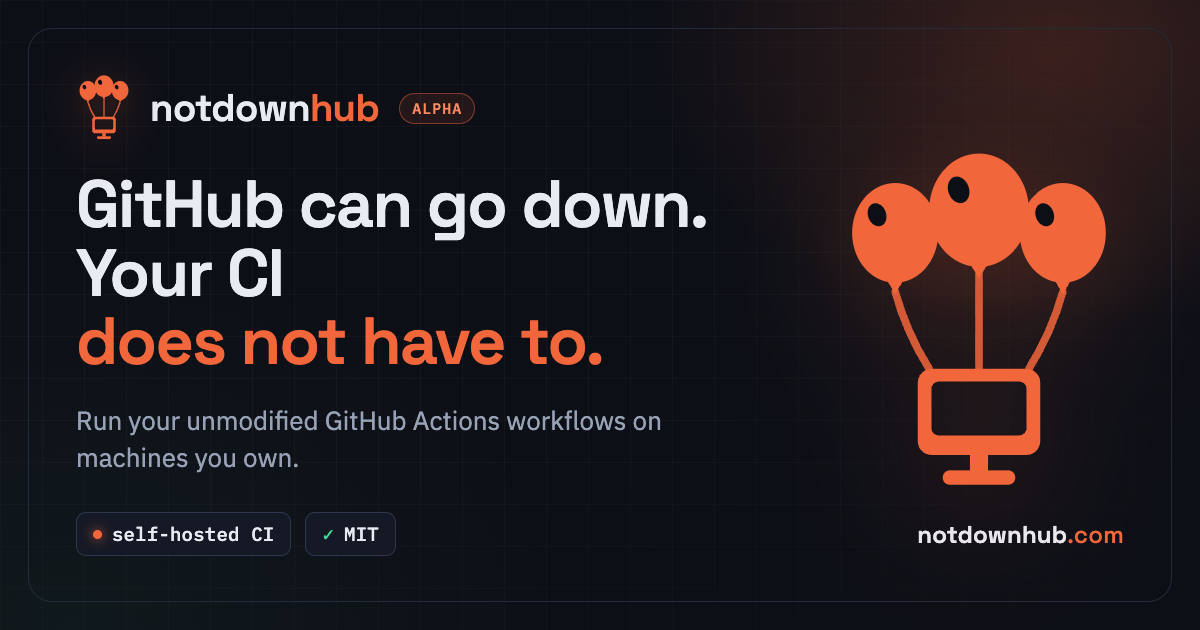
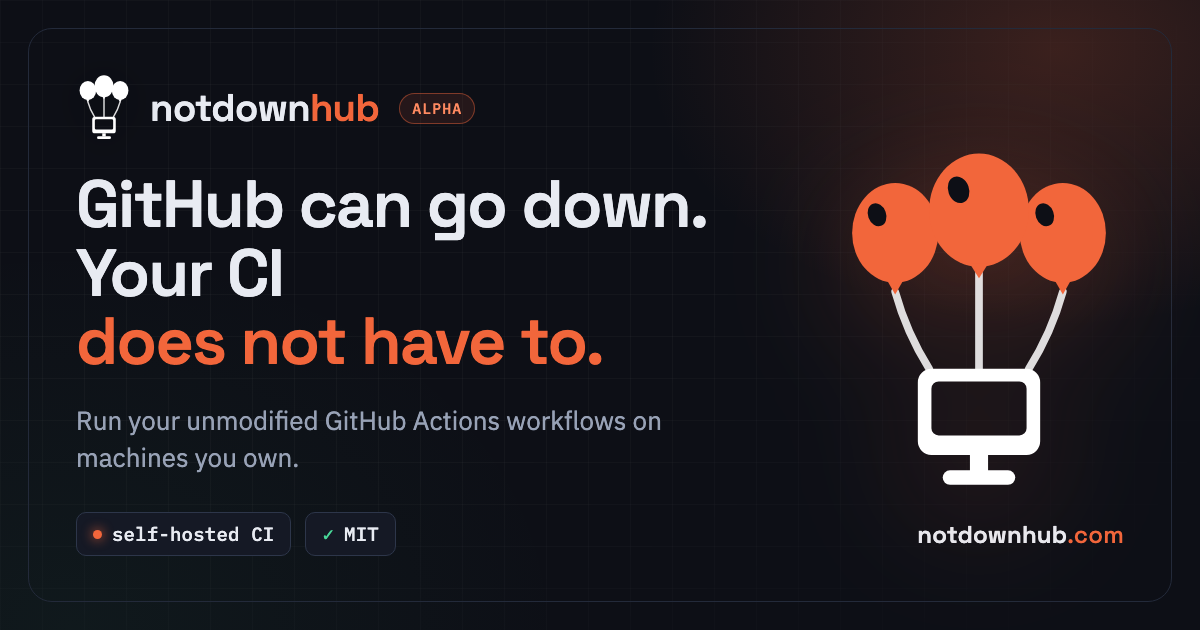
site: OG card balloons-only-orange marks + npm install instructions
OG card (public/og.png, regenerated 1200x630):
- small header mark now solid white (monochrome), was all-coral
- big decorative mark now two-tone: balloons coral (#f2663b),
  strings + monitor/stand white — the brand balloons-only-orange treatment

Run-it section: lead with `npm install -g notdownhub` + one-shot
`npx notdownhub run`, keep from-source (clone + pnpm build) as a
secondary path; drop the "not on a package registry yet" wording.

diff --git a/index.html b/index.html
@@ -524,22 +524,38 @@
         <div class="wrap">
           <div data-reveal>
             <p class="eyebrow">Run it</p>
-            <h2 class="title" id="run-h">Clone the repo and run your own CI.</h2>
+            <h2 class="title" id="run-h">Install it and run your own CI.</h2>
             <p class="lede">
-              Not on a package registry yet, so today the way in is clone and build.
-              Three lines and you're running your own workflows on your own machine.
+              The quickest way in is npm: the package is <code style="font-family: var(--f-mono); color: var(--coral);">notdownhub</code>,
+              the CLI is <code style="font-family: var(--f-mono); color: var(--coral);">ndh</code>.
+              A few lines and you're running your own workflows on your own machine. Prefer to build from source? That's right below.
             </p>
           </div>
 
           <div class="term" data-reveal>
             <div class="term-bar" aria-hidden="true">
-              <i></i><i></i><i></i><span>bash</span>
+              <i></i><i></i><i></i><span>bash&nbsp;·&nbsp;npm</span>
             </div>
             <div class="term-body">
-<pre><span class="pr">$</span> <span class="cmd">pnpm install &amp;&amp; pnpm -r build</span>
-<span class="pr">$</span> <span class="cmd">ndh install</span>      <span class="mut"># one-time: pins the runner stack (~66 MB)</span>
-<span class="pr">$</span> <span class="cmd">ndh run</span>          <span class="mut"># run this repo's workflows, locally, offline-capable</span>
-<span class="pr">$</span> <span class="cmd">ndh hub up</span>       <span class="mut"># later: a persistent hub for the whole team</span></pre>
+<pre><span class="pr">$</span> <span class="cmd">npm install -g notdownhub</span>  <span class="mut"># global install &rarr; the `ndh` CLI</span>
+<span class="pr">$</span> <span class="cmd">ndh install</span>                <span class="mut"># one-time: pins the runner stack (~66 MB)</span>
+<span class="pr">$</span> <span class="cmd">ndh run</span>                    <span class="mut"># run this repo's workflows, locally, offline-capable</span>
+<span class="pr">$</span> <span class="cmd">ndh hub up</span>                 <span class="mut"># later: a persistent hub for the whole team</span>
+
+<span class="mut"># no install? one-shot it:</span>
+<span class="pr">$</span> <span class="cmd">npx notdownhub run</span>         <span class="mut"># or: pnpm dlx notdownhub run</span></pre>
+            </div>
+          </div>
+
+          <p class="eyebrow" data-reveal style="margin-top: 2.2rem;">Or build from source</p>
+          <div class="term" data-reveal style="margin-top: 0.9rem;">
+            <div class="term-bar" aria-hidden="true">
+              <i></i><i></i><i></i><span>bash&nbsp;·&nbsp;from source</span>
+            </div>
+            <div class="term-body">
+<pre><span class="pr">$</span> <span class="cmd">git clone https://github.com/davidtai/notdownhub &amp;&amp; cd notdownhub</span>
+<span class="pr">$</span> <span class="cmd">pnpm install &amp;&amp; pnpm -r build</span>  <span class="mut"># builds the `ndh` CLI locally</span>
+<span class="pr">$</span> <span class="cmd">ndh run</span>                        <span class="mut"># same commands as above from here</span></pre>
             </div>
           </div>
 
